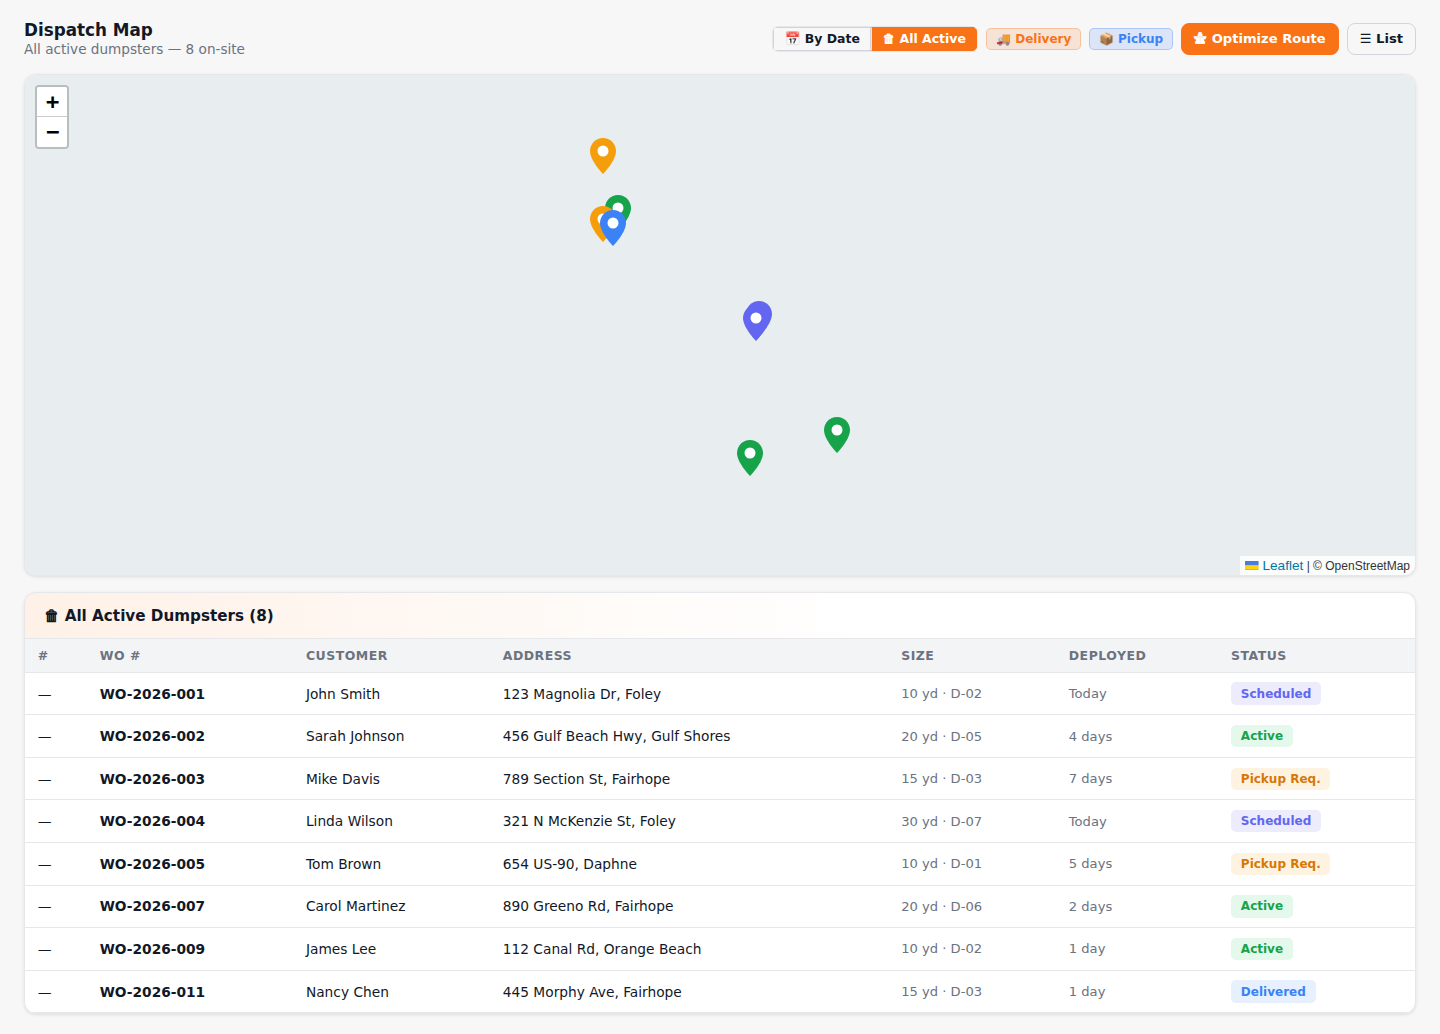
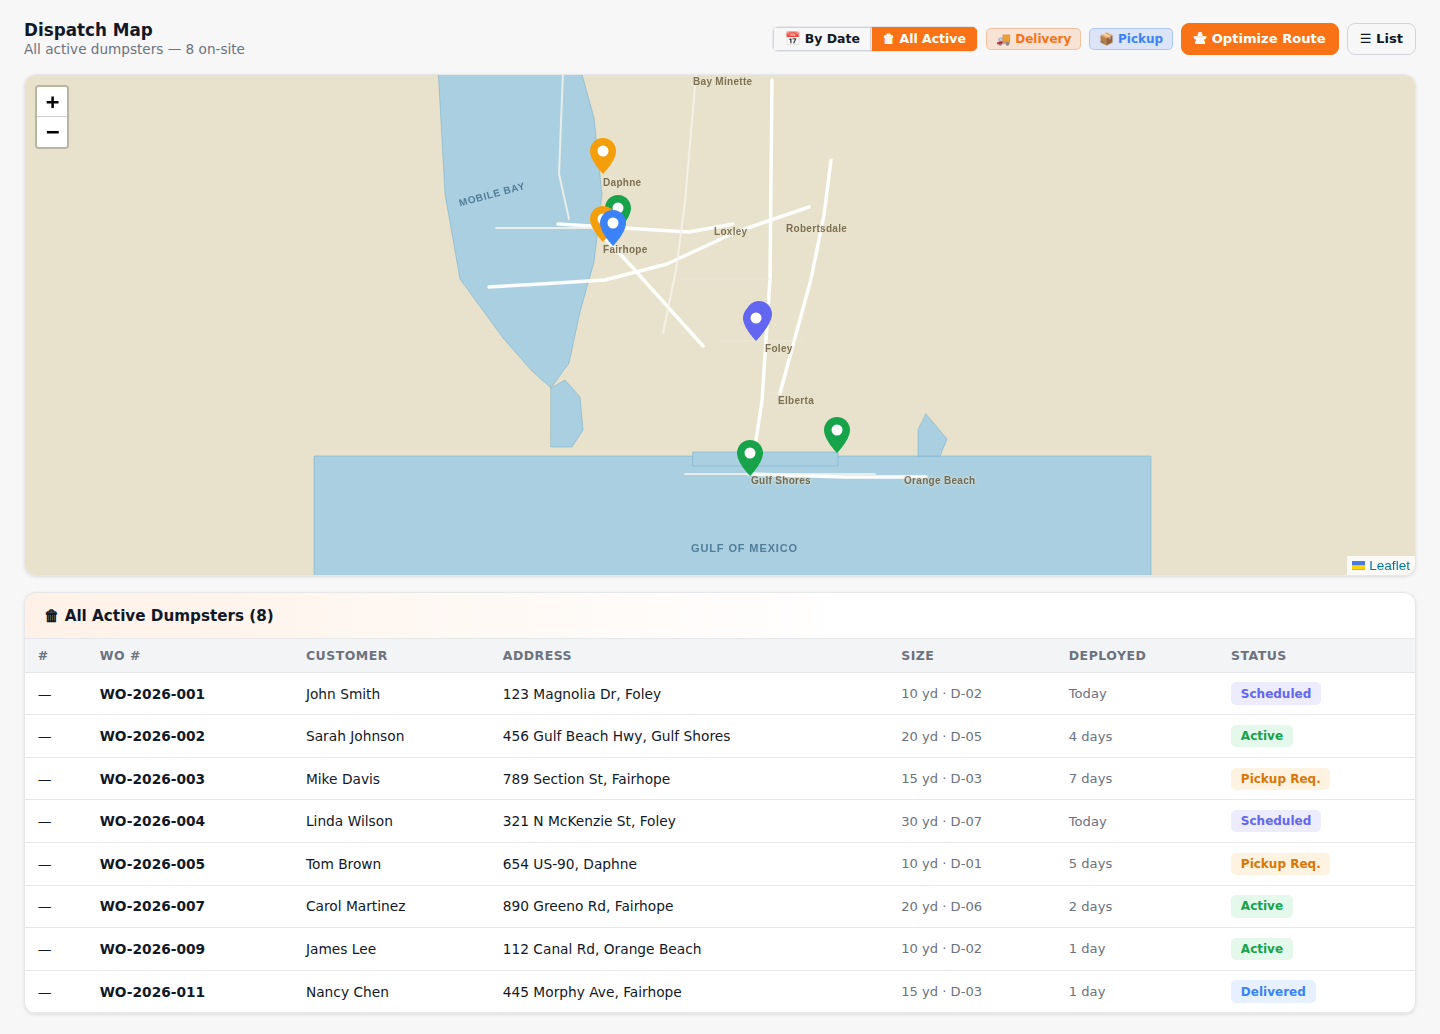
Add vector basemap to dispatch map demo
Replace empty tile layer with hand-coded vector map of Baldwin County, AL:
water polygons (Mobile Bay, Gulf of Mexico, Little Lagoon, Perdido Bay,
Bon Secour Bay), major highway polylines (I-10, US-90, US-98, AL-59/181),
local connectors, and city/water labels — all rendered locally with no
network dependency. Also updates the map background land color.

Regenerates all 4 dispatch-map screenshots with the new basemap visible.

https://claude.ai/code/session_01K2egnZ7Ug5sCkgtvkTRE5a

diff --git a/docs/demo/dispatch-map-demo.html b/docs/demo/dispatch-map-demo.html
@@ -62,9 +62,9 @@ body{background:var(--bg);color:var(--wh);font-family:var(--font);font-size:.94r
 .dispatch-row{cursor:pointer;}
 .dispatch-row.map-highlight>td{background:rgba(249,115,22,.08)!important;}
 
-/* ── Map tile background ────────────────────────────────────────────────── */
+/* ── Map background ─────────────────────────────────────────────────────── */
 #dispatch-map{height:500px;width:100%;}
-.leaflet-container{background:#e8edf0;}
+.leaflet-container{background:#e8e2cc;}
 
 /* ── Popup ──────────────────────────────────────────────────────────────── */
 .leaflet-popup-content-wrapper{border-radius:10px;box-shadow:0 4px 20px rgba(0,0,0,.22);font-family:var(--font);font-size:.84rem;min-width:220px;}
@@ -350,8 +350,154 @@ function buildPopup(job){
 // ── Map init ───────────────────────────────────────────────────────────────
 var map = L.map('dispatch-map',{ zoomControl:true });
 
-// Subtle grid pattern as tile background (no internet needed)
-L.tileLayer('', { maxZoom:18, attribution:'&copy; OpenStreetMap' }).addTo(map);
+// ── Vector basemap — Baldwin County, AL ────────────────────────────────────
+(function buildBasemap(){
+  var W = { color:'#6ea8c8', weight:.5, fillColor:'#aacfe0', fillOpacity:1 };
+  var ROAD_HWY  = { color:'#ffffff', weight:3.5, opacity:.95 };
+  var ROAD_SEC  = { color:'#f8f4ec', weight:2,   opacity:.8  };
+  var ROAD_LOC  = { color:'#f0ebe0', weight:1.2, opacity:.7  };
+
+  // ── Water bodies ──────────────────────────────────────────────────────────
+
+  // Gulf of Mexico (southern band)
+  L.polygon([
+    [30.27,-88.3],[30.27,-87.15],[30.0,-87.15],[30.0,-88.3]
+  ], W).addTo(map);
+
+  // Little Lagoon (thin intracoastal strip behind Gulf Shores beach)
+  L.polygon([
+    [30.275,-87.78],[30.275,-87.58],[30.258,-87.58],[30.258,-87.78]
+  ], W).addTo(map);
+
+  // Mobile Bay
+  L.polygon([
+    [30.73,-87.935],[30.77,-87.945],[30.80,-87.96],[30.82,-88.02],
+    [30.80,-88.12],[30.73,-88.13],[30.58,-88.12],[30.48,-88.10],
+    [30.41,-88.04],[30.37,-88.00],[30.35,-87.975],[30.38,-87.95],
+    [30.44,-87.935],[30.50,-87.915],[30.58,-87.905],[30.67,-87.915]
+  ], W).addTo(map);
+
+  // Bon Secour Bay / lower bay
+  L.polygon([
+    [30.35,-87.975],[30.36,-87.955],[30.34,-87.935],
+    [30.30,-87.93],[30.28,-87.945],[30.28,-87.975]
+  ], W).addTo(map);
+
+  // Perdido Bay (far east, near Florida)
+  L.polygon([
+    [30.32,-87.46],[30.29,-87.43],[30.27,-87.44],[30.27,-87.47],[30.30,-87.47]
+  ], W).addTo(map);
+
+  // ── Major highways ────────────────────────────────────────────────────────
+
+  // I-10 (east-west, northern Baldwin County)
+  L.polyline([
+    [30.470,-88.06],[30.474,-87.975],[30.478,-87.90],
+    [30.497,-87.815],[30.535,-87.720],[30.565,-87.620]
+  ], ROAD_HWY).addTo(map);
+
+  // US-90 (parallels I-10 closer to bay, through Daphne/Spanish Fort)
+  L.polyline([
+    [30.545,-87.965],[30.542,-87.90],[30.538,-87.845],
+    [30.535,-87.785],[30.545,-87.725]
+  ], ROAD_HWY).addTo(map);
+
+  // Foley Beach Express / US-59 (N-S spine through Foley to Gulf Shores)
+  L.polyline([
+    [30.715,-87.671],[30.650,-87.672],[30.560,-87.673],
+    [30.480,-87.674],[30.404,-87.681],[30.335,-87.685],
+    [30.273,-87.695],[30.248,-87.702]
+  ], ROAD_HWY).addTo(map);
+
+  // US-98 / Greeno Rd (N-S east side, through Foley east)
+  L.polyline([
+    [30.620,-87.590],[30.555,-87.600],[30.480,-87.618],
+    [30.415,-87.638],[30.345,-87.660]
+  ], ROAD_HWY).addTo(map);
+
+  // US-98 W / Miflin Rd (Daphne to Foley, diagonal)
+  L.polyline([
+    [30.540,-87.915],[30.505,-87.875],[30.470,-87.838],
+    [30.435,-87.800],[30.400,-87.765]
+  ], ROAD_HWY).addTo(map);
+
+  // AL-59 beach spur (Gulf Shores east to Orange Beach)
+  L.polyline([
+    [30.248,-87.702],[30.245,-87.570],[30.245,-87.460]
+  ], ROAD_HWY).addTo(map);
+
+  // AL-181 (N-S connector, central Baldwin)
+  L.polyline([
+    [30.720,-87.775],[30.650,-87.782],[30.570,-87.790],
+    [30.490,-87.803],[30.415,-87.820]
+  ], ROAD_SEC).addTo(map);
+
+  // AL-225 / Eastern Shore Pkwy (along bay)
+  L.polyline([
+    [30.724,-87.958],[30.700,-87.958],[30.660,-87.962],
+    [30.604,-87.963],[30.550,-87.950]
+  ], ROAD_SEC).addTo(map);
+
+  // Causeway / US-98 (bridge across bay, east-west)
+  L.polyline([
+    [30.540,-87.915],[30.540,-87.950],[30.540,-88.00],[30.540,-88.05]
+  ], ROAD_SEC).addTo(map);
+
+  // Gulf Shores Blvd (east-west beach road)
+  L.polyline([
+    [30.248,-87.79],[30.248,-87.73],[30.248,-87.68],
+    [30.248,-87.60],[30.248,-87.53]
+  ], ROAD_SEC).addTo(map);
+
+  // Local connectors
+  L.polyline([[30.406,-87.630],[30.406,-87.681],[30.406,-87.742]],ROAD_LOC).addTo(map);
+  L.polyline([[30.480,-87.674],[30.480,-87.740],[30.480,-87.800]],ROAD_LOC).addTo(map);
+  L.polyline([[30.345,-87.660],[30.345,-87.681]],ROAD_LOC).addTo(map);
+
+  // ── City labels ───────────────────────────────────────────────────────────
+  var labelIcon = function(txt){
+    return L.divIcon({
+      className:'',
+      html:'<div style="font-size:10px;font-weight:700;color:#5a4a2a;white-space:nowrap;'
+          +'text-shadow:0 0 3px #e8e2cc,0 0 3px #e8e2cc;letter-spacing:.03em;opacity:.75;">'+txt+'</div>',
+      iconAnchor:[0,0]
+    });
+  };
+  var cities = [
+    [30.406,-87.681,'Foley'],
+    [30.250,-87.700,'Gulf Shores'],
+    [30.250,-87.490,'Orange Beach'],
+    [30.602,-87.903,'Daphne'],
+    [30.523,-87.903,'Fairhope'],
+    [30.545,-87.750,'Loxley'],
+    [30.548,-87.652,'Robertsdale'],
+    [30.345,-87.662,'Elberta'],
+    [30.722,-87.780,'Bay Minette']
+  ];
+  cities.forEach(function(c){
+    L.marker([c[0],c[1]],{icon:labelIcon(c[2]),interactive:false}).addTo(map);
+  });
+
+  // Gulf of Mexico label
+  L.marker([30.17,-87.72],{
+    icon:L.divIcon({
+      className:'',
+      html:'<div style="font-size:11px;font-weight:700;color:#2a5a7a;letter-spacing:.08em;'
+          +'text-transform:uppercase;white-space:nowrap;opacity:.7;">Gulf of Mexico</div>',
+      iconAnchor:[45,0]
+    }),interactive:false
+  }).addTo(map);
+
+  // Mobile Bay label
+  L.marker([30.58,-88.06],{
+    icon:L.divIcon({
+      className:'',
+      html:'<div style="font-size:10px;font-weight:700;color:#2a5a7a;letter-spacing:.06em;'
+          +'text-transform:uppercase;white-space:nowrap;opacity:.7;transform:rotate(-15deg);">Mobile Bay</div>',
+      iconAnchor:[30,0]
+    }),interactive:false
+  }).addTo(map);
+})();
 
 // Add day-view markers
 JOBS.forEach(function(job){
